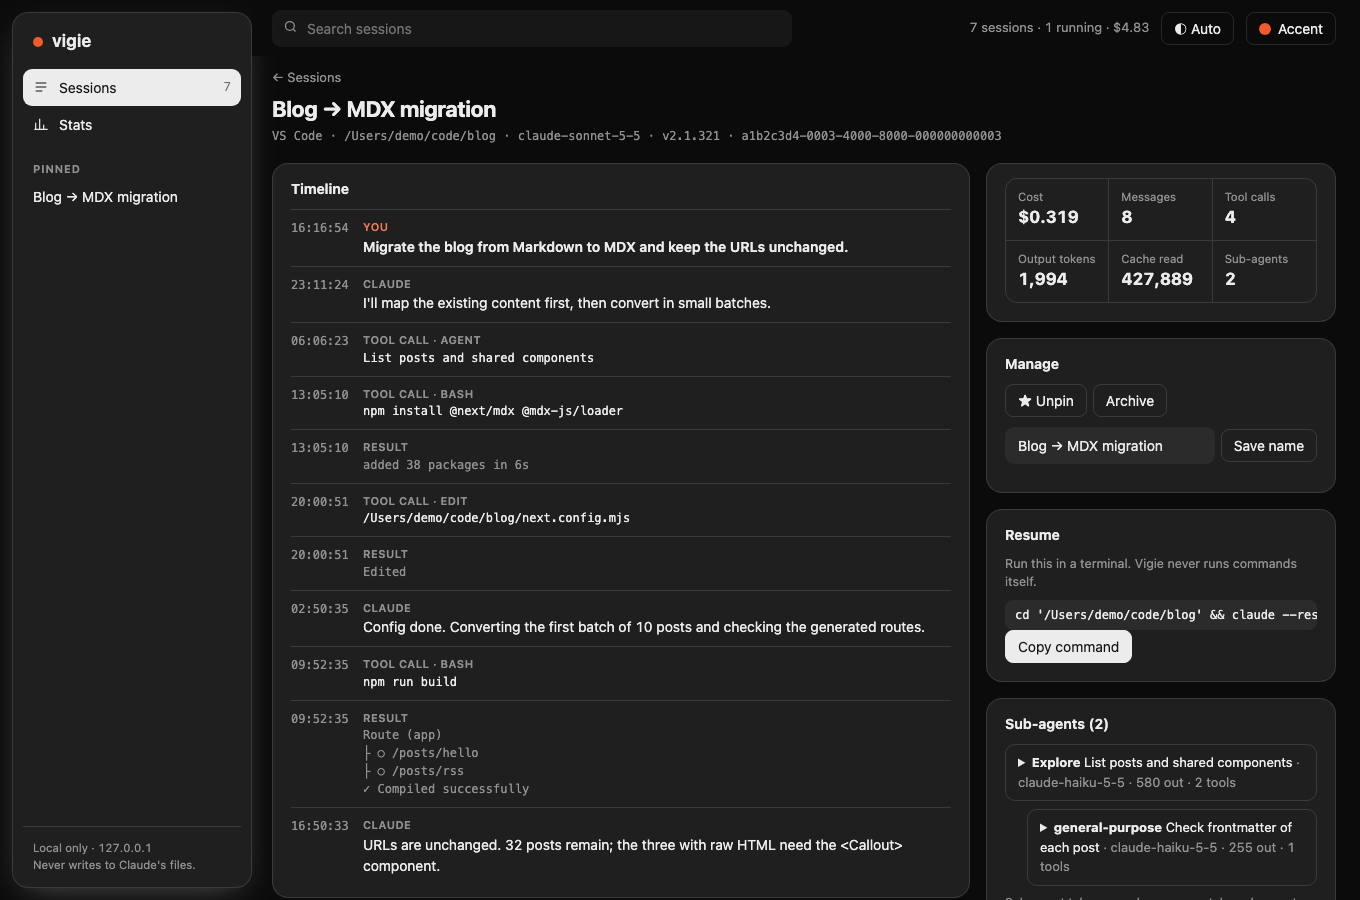
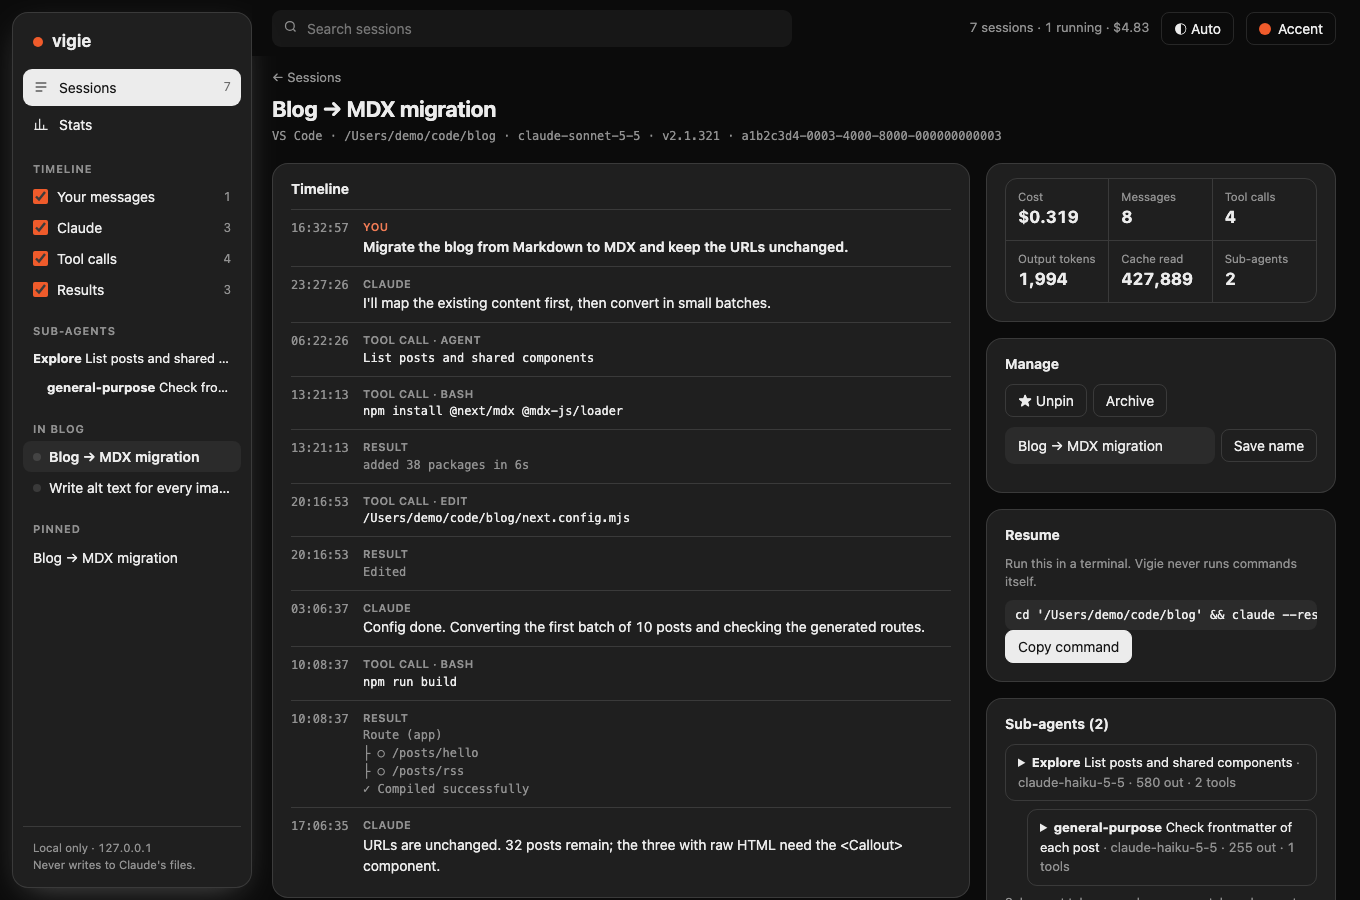
Make the sidebar follow the page
- List: filters by project, client, running, archived (unchanged)
- Session: timeline event filters with counts, jump to a sub-agent (opens and loads it),
  other sessions of the same project
- Stats: period (7, 30, 90 days)
- A new page starts at the top; a live refresh no longer rebuilds a focused sidebar
- Sticky side column of the session page scrolls inside itself when it is taller than the window
- Screenshots and README updated

Changed region(s): [[0.0, 0.1867, 0.1544, 0.4356], [0.0309, 0.4667, 0.1544, 0.6222]]

diff --git a/ui/app.js b/ui/app.js
@@ -62,6 +62,8 @@ const state = {
   span: 14, // days shown by the watch
   moreProjects: false, // sidebar: show every project, not only the 6 most recent
   moreLanes: false, // watch: show every project lane, not only the 8 most recent
+  hiddenKinds: new Set(), // session page: kinds of timeline events the user turned off
+  statsDays: 30, // stats page: period
   filters: { q: "", projects: new Set(), clients: new Set(), activeOnly: false, showArchived: false },
 };
 
@@ -114,7 +116,92 @@ function option(label, checked, onchange, count) {
   );
 }
 
-function renderSide(view) {
+function radio(name, label, checked, onchange) {
+  return h("label", { class: "opt" }, h("input", { type: "radio", name, checked, onchange }), h("span", { class: "lbl" }, label));
+}
+
+// Timeline event kinds, as the server names them.
+const KINDS = [
+  ["user", "Your messages"],
+  ["assistant", "Claude"],
+  ["tool_use", "Tool calls"],
+  ["tool_result", "Results"],
+];
+const applyTimelineFilter = () => (app.dataset.hide = [...state.hiddenKinds].join(" "));
+
+function openAgent(id) {
+  const el = app.querySelector(`details[data-agent="${CSS.escape(id)}"]`);
+  if (!el) return;
+  el.open = true; // loads its timeline
+  el.scrollIntoView({ block: "center", behavior: matchMedia("(prefers-reduced-motion: reduce)").matches ? "auto" : "smooth" });
+}
+
+// The sidebar follows the page: filters for the list, controls for the session being read, a period for the stats.
+function detailSections(ctx) {
+  const d = ctx.detail;
+  const counts = {};
+  for (const e of d?.events ?? []) counts[e.kind] = (counts[e.kind] ?? 0) + 1;
+  const out = [
+    h("h4", {}, "Timeline"),
+    ...KINDS.map(([k, label]) =>
+      option(
+        label,
+        !state.hiddenKinds.has(k),
+        (e) => {
+          if (e.target.checked) state.hiddenKinds.delete(k);
+          else state.hiddenKinds.add(k);
+          applyTimelineFilter();
+        },
+        d ? `${counts[k] ?? 0}${d.truncated ? "+" : ""}` : undefined,
+      ),
+    ),
+  ];
+  if (d?.agents?.length) {
+    out.push(
+      h("h4", {}, "Sub-agents"),
+      ...d.agents.map((a) =>
+        h("button", { type: "button", class: `jump d${Math.min(a.depth, 4)}`, title: `${a.type} · ${a.description}`, onclick: () => openAgent(a.id) }, h("b", {}, a.type), ` ${a.description}`),
+      ),
+    );
+  }
+  const id = decodeURIComponent(location.hash.slice(4));
+  const s = state.sessions.find((x) => x.id === id);
+  if (s) {
+    const key = projectKey(s);
+    const siblings = state.sessions
+      .filter((x) => projectKey(x) === key && (!x.archived || x.id === s.id))
+      .sort((a, b) => Date.parse(b.updatedAt) - Date.parse(a.updatedAt))
+      .slice(0, 8);
+    if (siblings.length > 1) {
+      out.push(
+        h("h4", {}, `In ${projectLabels([key]).get(key)}`),
+        ...siblings.map((x) =>
+          h("a", { class: "side-link", href: sessionHref(x), title: sessionTitle(x), "aria-current": x.id === s.id ? "page" : null }, h("span", { class: `st${x.active ? " live" : ""}` }), h("span", { class: "lbl" }, sessionTitle(x))),
+        ),
+      );
+    }
+  }
+  return out;
+}
+
+const PERIODS = [
+  [7, "7 days"],
+  [30, "30 days"],
+  [90, "90 days"],
+];
+function statsSections() {
+  return [
+    h("h4", {}, "Period"),
+    ...PERIODS.map(([d, label]) =>
+      radio("period", label, state.statsDays === d, () => {
+        state.statsDays = d;
+        renderStats();
+      }),
+    ),
+  ];
+}
+
+function renderSide(view, ctx = {}) {
   const sessions = state.sessions;
   const open = sessions.filter((s) => !s.archived);
   const f = state.filters;
@@ -162,13 +249,17 @@ function renderSide(view) {
       option("Running only", f.activeOnly, (e) => ((f.activeOnly = e.target.checked), drawSessions())),
       option("Archived", f.showArchived, (e) => ((f.showArchived = e.target.checked), drawSessions()), sessions.length - open.length),
     );
+  } else if (view === "detail") {
+    parts.push(...detailSections(ctx));
+  } else if (view === "stats") {
+    parts.push(...statsSections());
   }
 
   const pinned = open.filter((s) => s.pinned);
   if (pinned.length) {
     parts.push(
       h("h4", {}, "Pinned"),
-      ...pinned.map((s) => h("a", { class: "pin-link", href: sessionHref(s), title: sessionTitle(s) }, h("span", {}, sessionTitle(s)))),
+      ...pinned.map((s) => h("a", { class: "side-link", href: sessionHref(s), title: sessionTitle(s) }, h("span", { class: "lbl" }, sessionTitle(s)))),
     );
   }
   parts.push(h("div", { class: "foot" }, "Local only · 127.0.0.1", h("br"), "Never writes to Claude's files."));
@@ -425,7 +516,7 @@ function agentsCard(sessionId, agents) {
     let loaded = false;
     const det = h(
       "details",
-      { class: `agent d${Math.min(a.depth, 4)}` },
+      { class: `agent d${Math.min(a.depth, 4)}`, "data-agent": a.id },
       h(
         "summary",
         {},
@@ -459,9 +550,9 @@ function agentsCard(sessionId, agents) {
   );
 }
 
-async function renderDetail(id) {
-  const d = await api(`/api/sessions/${encodeURIComponent(id)}`);
+function renderDetail(d) {
   const s = d.summary;
+  applyTimelineFilter();
   updateStatus(state.sessions.filter((x) => !x.archived));
   const cell = (label, value) => h("div", {}, h("small", {}, label), h("b", {}, value));
   app.replaceChildren(
@@ -550,7 +641,8 @@ function table(headers, rows) {
 }
 
 async function renderStats() {
-  const s = await api("/api/stats?days=30");
+  const days = state.statsDays;
+  const s = await api(`/api/stats?days=${days}`);
   const kpi = (label, value) => h("div", { class: "card kpi" }, h("small", {}, label), h("b", {}, value));
   const last30 = s.days.reduce((n, d) => n + d.costUSD, 0);
   updateStatus(state.sessions.filter((x) => !x.archived));
@@ -560,7 +652,7 @@ async function renderStats() {
       "div",
       { class: "kpis" },
       kpi("Total cost", money(s.totals.costUSD)),
-      kpi("Last 30 days (est.)", money(last30)),
+      kpi(`Last ${days} days (est.)`, money(last30)),
       kpi("Sessions", num(s.totals.sessions)),
       kpi("Output tokens", num(s.totals.tokens.output)),
       kpi("Cache read tokens", num(s.totals.tokens.cacheRead)),
@@ -568,7 +660,7 @@ async function renderStats() {
     h(
       "section",
       { class: "card" },
-      h("div", { class: "ch" }, h("h3", {}, "Daily cost"), h("span", { class: "sub" }, "last 30 days")),
+      h("div", { class: "ch" }, h("h3", {}, "Daily cost"), h("span", { class: "sub" }, `last ${days} days`)),
       costChart(s.days),
       h("p", { class: "hint" }, "Session and model totals come from Claude's own cost data. A day's cost is an estimate: a session's cost is spread over the days it ran, in proportion to the tokens used."),
     ),
@@ -584,23 +676,30 @@ async function renderStats() {
 // ---------- routing, live refresh, keyboard ----------
 const currentView = () => (location.hash === "#/stats" ? "stats" : /^#\/s\/.+/.test(location.hash) ? "detail" : "sessions");
 
-async function route() {
+async function route({ keepSide = false } = {}) {
   document.body.classList.remove("nav-open");
   $("#menu").setAttribute("aria-expanded", "false");
   try {
     const view = currentView();
     const { sessions } = await api("/api/sessions");
     state.sessions = sessions;
-    // Do not rebuild the sidebar under the user's hands (a focused checkbox would lose focus).
-    if (!side.contains(document.activeElement) || !side.children.length) renderSide(view);
-    if (view === "stats") await renderStats();
-    else if (view === "detail") await renderDetail(decodeURIComponent(location.hash.slice(4)));
-    else drawSessions();
+    // A live refresh must not rebuild the sidebar under the user's hands (a focused checkbox would lose focus).
+    const rebuildSide = !(keepSide && side.contains(document.activeElement)) || !side.children.length;
+    if (view === "detail") {
+      const d = await api(`/api/sessions/${encodeURIComponent(decodeURIComponent(location.hash.slice(4)))}`);
+      if (rebuildSide) renderSide(view, { detail: d }); // needs the session: sub-agents and event counts
+      renderDetail(d);
+    } else {
+      if (rebuildSide) renderSide(view);
+      if (view === "stats") await renderStats();
+      else drawSessions();
+    }
   } catch {
     app.replaceChildren(h("div", { class: "card empty" }, "Could not load data."));
   }
 }
 addEventListener("hashchange", () => {
+  scrollTo(0, 0); // a new page starts at the top
   renderSide(currentView()); // the sidebar content depends on the page
   route();
 });
@@ -634,7 +733,7 @@ new EventSource("/api/events").addEventListener("change", () => {
     // Do not wipe the name box while the user types in it, nor collapse a sub-agent they just opened.
     const editing = app.contains(document.activeElement) && document.activeElement.tagName === "INPUT";
     if (currentView() === "detail" && (editing || document.querySelector("details[open]"))) return;
-    route();
+    route({ keepSide: true });
   }, 400);
 });
 route();

diff --git a/ui/style.css b/ui/style.css
@@ -69,9 +69,15 @@ input[type="text"]:focus, input[type="search"]:focus { background: var(--card); 
 .opt .n { margin-left: auto; font-size: 12px; color: var(--muted); }
 .side .more { margin: 4px 10px 0; padding: 0; border: 0; background: none; color: var(--accent-ink); font-size: 12.5px; }
 .side .more:hover { background: none; text-decoration: underline; }
-.pin-link { display: flex; gap: 8px; padding: 5px 10px; border-radius: 8px; text-decoration: none; }
-.pin-link:hover { background: var(--soft); }
-.pin-link span { overflow: hidden; text-overflow: ellipsis; white-space: nowrap; }
+.side-link { display: flex; align-items: center; gap: 8px; padding: 5px 10px; border-radius: 8px; text-decoration: none; }
+.side-link[aria-current="page"] { background: var(--soft); font-weight: 600; }
+.side-link .st { margin-right: 0; flex: none; }
+.jump { display: block; width: 100%; padding: 5px 10px; border: 0; border-radius: 8px; text-align: left; font-size: 13px; overflow: hidden; text-overflow: ellipsis; white-space: nowrap; }
+.jump.d2 { padding-left: 24px; }
+.jump.d3 { padding-left: 38px; }
+.jump.d4 { padding-left: 52px; }
+.side-link:hover { background: var(--soft); }
+.side-link .lbl { overflow: hidden; text-overflow: ellipsis; white-space: nowrap; }
 .foot { margin-top: auto; padding: 12px 10px 2px; border-top: 1px solid var(--line); font-size: 11.5px; color: var(--muted); }
 
 .col { min-width: 0; }
@@ -170,7 +176,7 @@ td .p { margin-left: 17px; font: 12px var(--mono); color: var(--muted); }
 .dhead .meta { margin-top: 4px; color: var(--muted); overflow-wrap: anywhere; }
 .dgrid { display: grid; grid-template-columns: minmax(0, 1fr); gap: 16px; align-items: start; }
 .stack > .card + .card { margin-top: 16px; }
-@media (min-width: 1180px) { .dgrid { grid-template-columns: minmax(0, 1fr) 350px; } .dgrid > .stack { order: 2; position: sticky; top: 68px; } .dgrid > .card { order: 1; } }
+@media (min-width: 1180px) { .dgrid { grid-template-columns: minmax(0, 1fr) 350px; } .dgrid > .stack { order: 2; position: sticky; top: 68px; max-height: calc(100vh - 84px); overflow: auto; } .dgrid > .card { order: 1; } }
 .kv { display: grid; grid-template-columns: repeat(3, 1fr); margin: 14px 18px 18px; border: 1px solid var(--line); border-radius: 12px; overflow: hidden; }
 .kv div { padding: 9px 12px; border-right: 1px solid var(--line); border-bottom: 1px solid var(--line); }
 .kv div:nth-child(3n) { border-right: 0; }
@@ -203,6 +209,8 @@ details.agent.d4 { margin-left: 84px; }
 .te.tool_use pre, .te.tool_result pre { font: 12px/1.5 var(--mono); }
 .te.tool_result pre { color: var(--muted); }
 .agent-body .te { grid-template-columns: 56px minmax(0, 1fr); }
+/* kinds switched off from the sidebar (see applyTimelineFilter) */
+[data-hide~="user"] .te.user, [data-hide~="assistant"] .te.assistant, [data-hide~="tool_use"] .te.tool_use, [data-hide~="tool_result"] .te.tool_result { display: none; }
 
 /* ---------- stats ---------- */
 .kpis { display: grid; grid-template-columns: repeat(auto-fit, minmax(170px, 1fr)); gap: 16px; margin: 6px 0 16px; }

diff --git a/README.md b/README.md
@@ -44,7 +44,8 @@ npm install && npm start
 ## Features (MVP)
 
 - **The watch**: a timeline with one lane per project, showing when each session ran. A short session is a dot, a long one a bar; its size follows its cost; a running session pulses at "now". Zoom on 24 h, 7 d or 14 d. Click a mark to open the session.
-- Session list: project, client (desktop / CLI / VS Code), title, last activity, cost, live status. Filter from the sidebar by project, client, running only, archived; search from the header (press `/`).
+- A sidebar that follows the page. On the list: filters by project, client, running only and archived. On a session: show or hide kinds of timeline events (your messages, Claude, tool calls, results), jump to a sub-agent, switch to another session of the same project. On Stats: the period (7, 30 or 90 days). Pinned sessions are always there.
+- Session list: project, client (desktop / CLI / VS Code), title, last activity, cost, live status. Search from the header (press `/`).
 - Session page: timeline of messages and tool calls, token totals. It replaces the list, keeping the sidebar and header in place (`Esc` goes back).
 - Appearance: light, dark or follow the system, and an accent color of your choice (presets or any color). Stored in your browser only.
 - Sub-agents: tree of the agents a session spawned (nested ones included), each with its own timeline loaded on demand. Their tokens are shown separately and are not added to the session totals.
